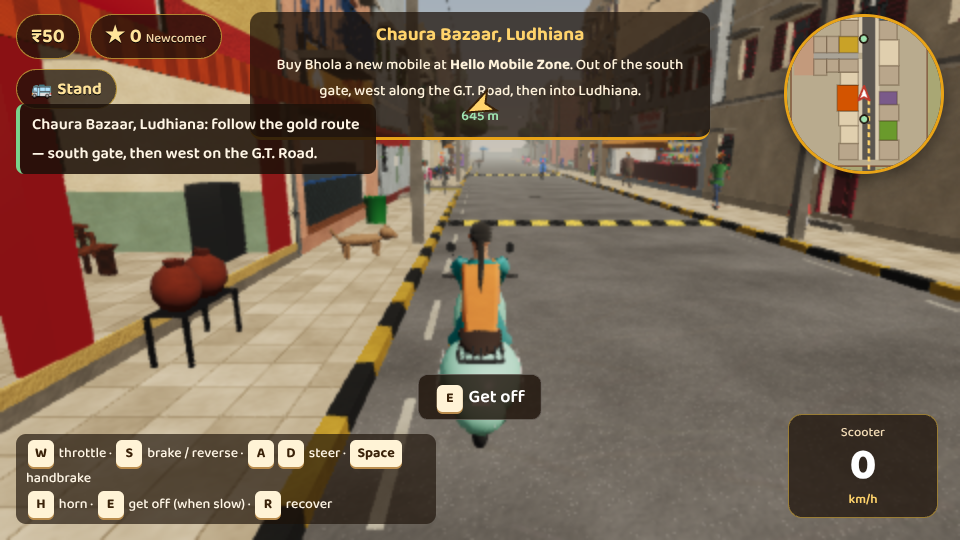
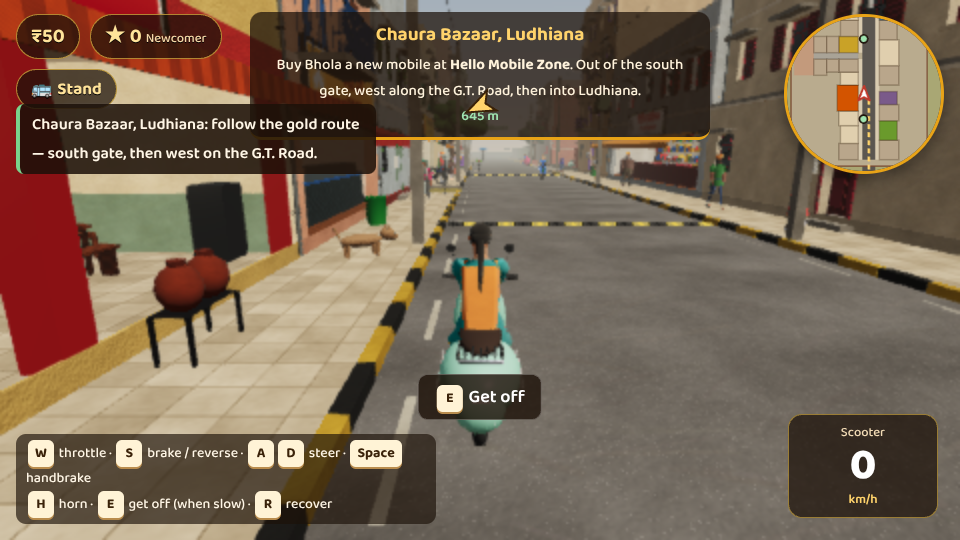
Count the horns, so "the honking gives me a headache" can be measured
AudioSystem.hornCount ticks every horn that actually sounds (past the
earshot check and the 0.7 s throttle), the probe reports it, and the audit
turns it into horns per minute per zone. The zone work set the horn rates
by judgement; this is how we check them against a number instead.

Claude-Session: https://claude.ai/code/session_01VNXw6cCeYpuq4PxkhBPT1y

diff --git a/src/audio/Audio.ts b/src/audio/Audio.ts
@@ -192,6 +192,8 @@ export class AudioSystem {
     return this.detail === "low" ? 55 : 80;
   }
   volumes: Volumes = { master: 0.8, sfx: 0.9, ambience: 0.7, music: 0.7, muted: false };
+  /** Horns actually sounded, for measuring how tiring a place is. */
+  hornCount = 0;
   private nextBird = 0;
   private nextClank = 0;
   /** The ambience bed, driven by the zone the listener is standing in. */
@@ -440,6 +442,7 @@ export class AudioSystem {
   /** A vehicle's horn: a recorded clip per kind of vehicle (synth until it has loaded). */
   vehicleHorn(base: string, hz: [number, number], pos: Vector3, gain = 0.9): void {
     if (!this.ready || !this.audible(pos) || !this.throttle("horn", 0.7)) return;
+    this.hornCount++;
     // Two takes of each "horn_*" kind, so not every car beeps the same.
     const clip = base.startsWith("horn_") ? `${base}_${1 + Math.floor(Math.random() * 2)}` : base;
     const key = `sfx/${clip}`;
@@ -491,6 +494,7 @@ export class AudioSystem {
 
   horn(hz: [number, number], pos: Vector3): void {
     if (!this.ready || !this.audible(pos) || !this.throttle("horn", 0.7)) return;
+    this.hornCount++;
     const d = this.at(this.worldToAudio(pos), this.sfx, 6);
     this.tone(hz[0], 0.45, "square", 0.12, d);
     this.tone(hz[1], 0.45, "square", 0.1, d);

diff --git a/src/app/Game.ts b/src/app/Game.ts
@@ -1823,6 +1823,7 @@ export class Game {
           clockDropped: this.clock.droppedTime,
           counters: this.counters,
           audioState: this.audio.ctx?.state ?? "none",
+          hornCount: this.audio.hornCount,
           lastVoice: this.audio.lastVoice,
           spoken: this.barkers?.spoken ?? 0,
           buff: this.buff ? { mul: this.buff.mul, left: this.buff.until - this.time } : null,
